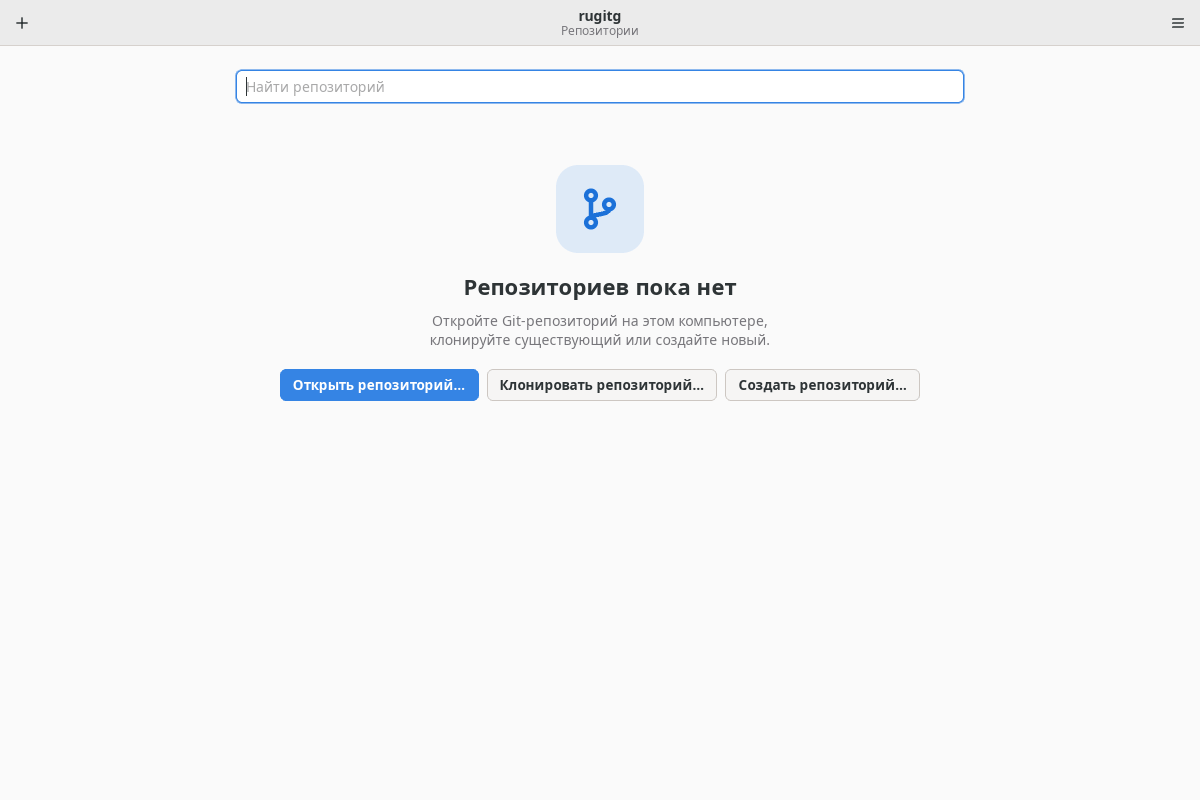
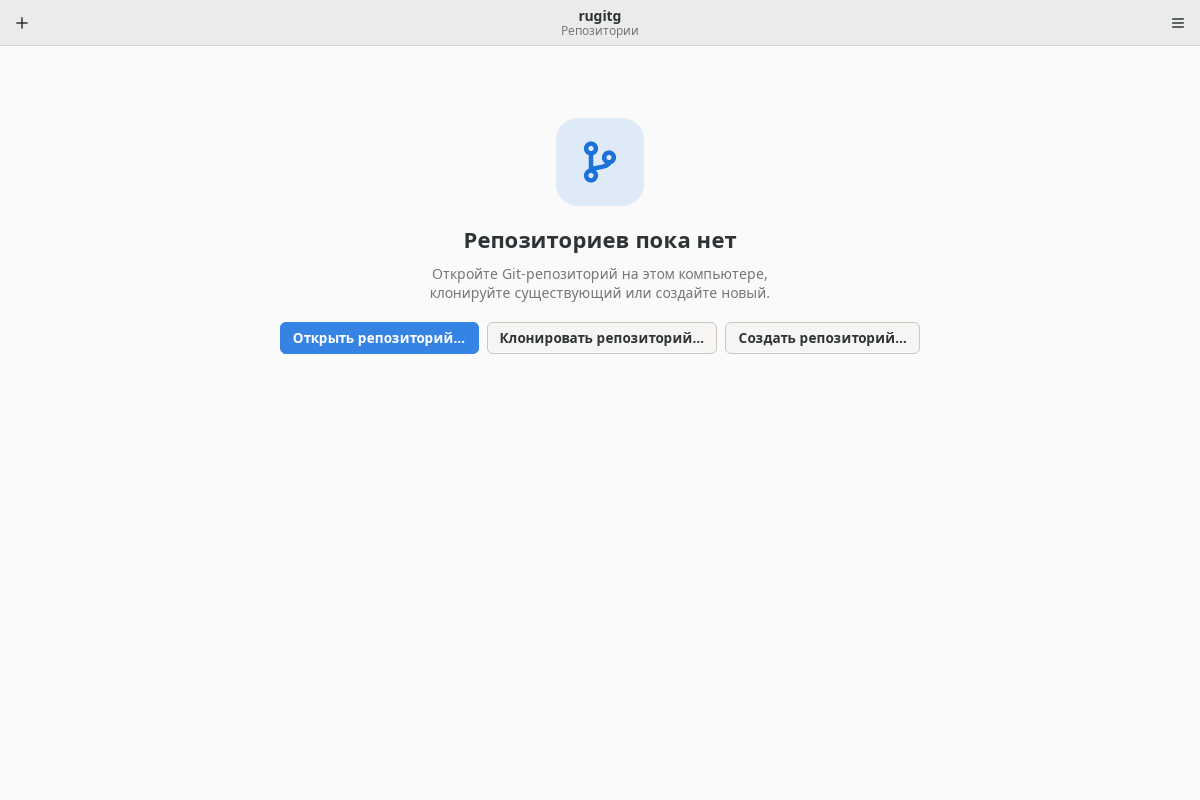
Start screen: hide the search field when there are no repositories
With an empty list there is nothing to search; the "Open repository"
button gets the focus instead. README screenshot updated.

Changed region(s): [[0.2158, 0.125, 0.74, 0.5], [0.6167, 0.4688, 0.74, 0.5], [0.185, 0.0938, 0.3083, 0.125]]

diff --git a/src/dash.ts b/src/dash.ts
@@ -10,6 +10,7 @@ export class Dash {
   el: HTMLElement;
   private list: HTMLElement;
   private filter: HTMLInputElement;
+  private top!: HTMLElement;
   private repos: RecentRepo[] = [];
   onOpen: (path: string) => void = () => {};
 
@@ -23,7 +24,7 @@ export class Dash {
     this.list = h("div", { class: "repo-list", role: "list" });
     this.el = h("div", { class: "view dash" },
       h("div", { class: "dash-inner" },
-        h("div", { class: "dash-top" }, this.filter),
+        this.top = h("div", { class: "dash-top" }, this.filter),
         this.list));
   }
 
@@ -34,13 +35,16 @@ export class Dash {
       this.repos = [];
     }
     this.render();
-    this.filter.focus();
+    // With no repositories there is nothing to search: focus the main action instead.
+    if (this.repos.length) this.filter.focus();
+    else (this.list.querySelector(".suggested") as HTMLElement | null)?.focus();
   }
 
   private render() {
     clear(this.list);
     const q = this.filter.value.trim().toLowerCase();
     const shown = this.repos.filter((r) => !q || r.name.toLowerCase().includes(q) || r.path.toLowerCase().includes(q));
+    this.top.classList.toggle("hidden", this.repos.length === 0);
     if (this.repos.length === 0) {
       this.list.appendChild(h("div", { class: "dash-empty" },
         h("div", { class: "dash-logo" }, icon("history")),
